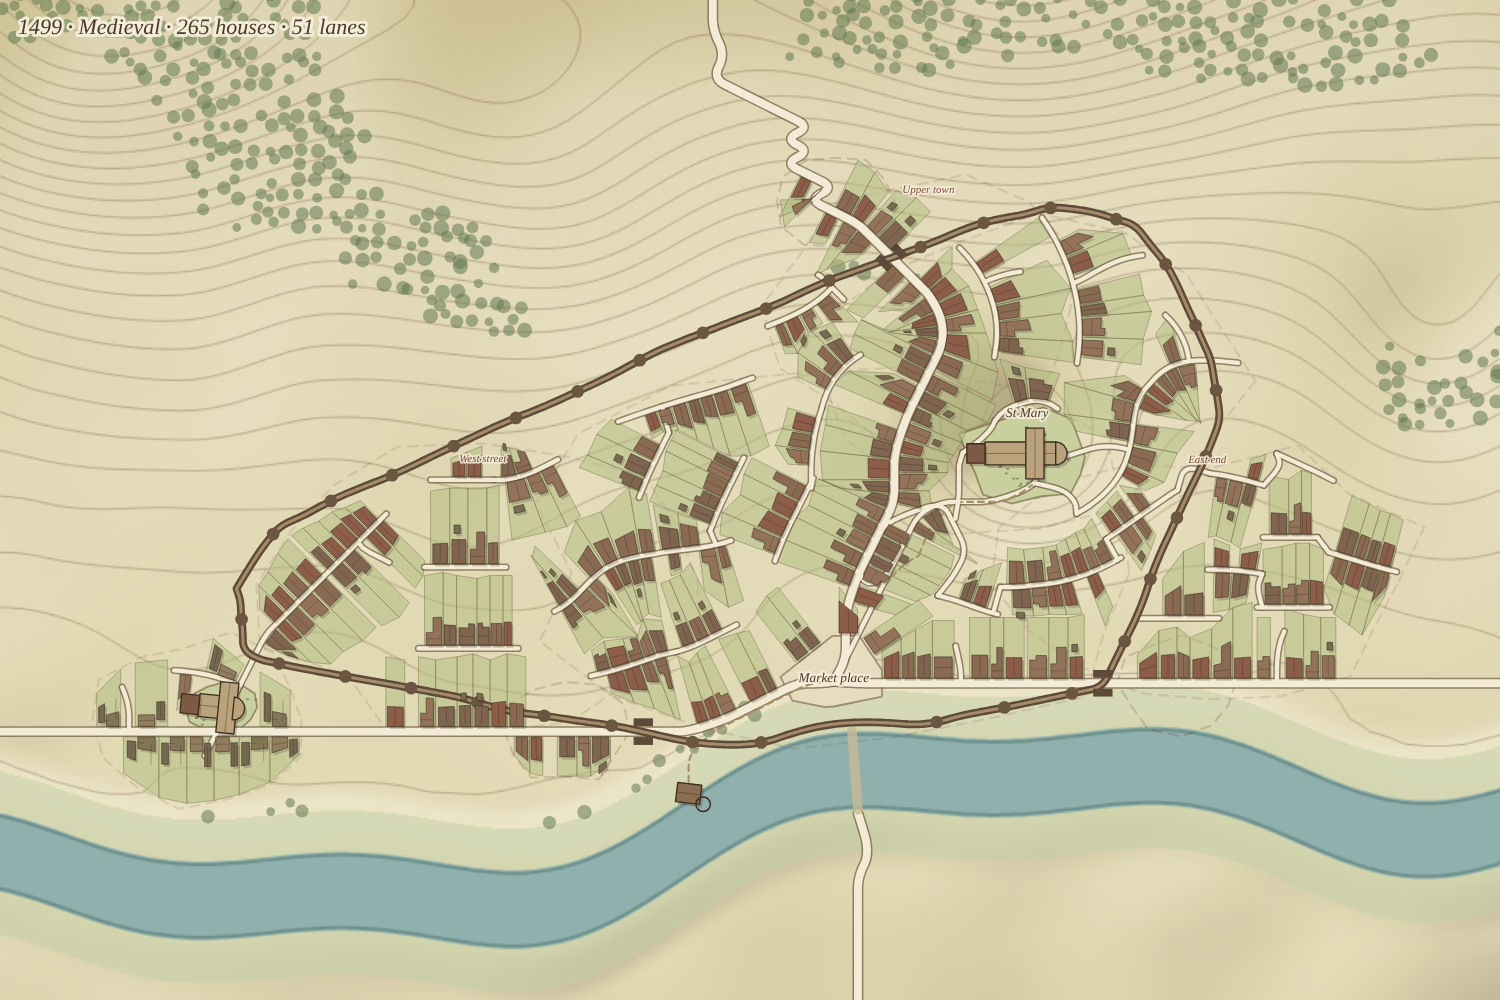
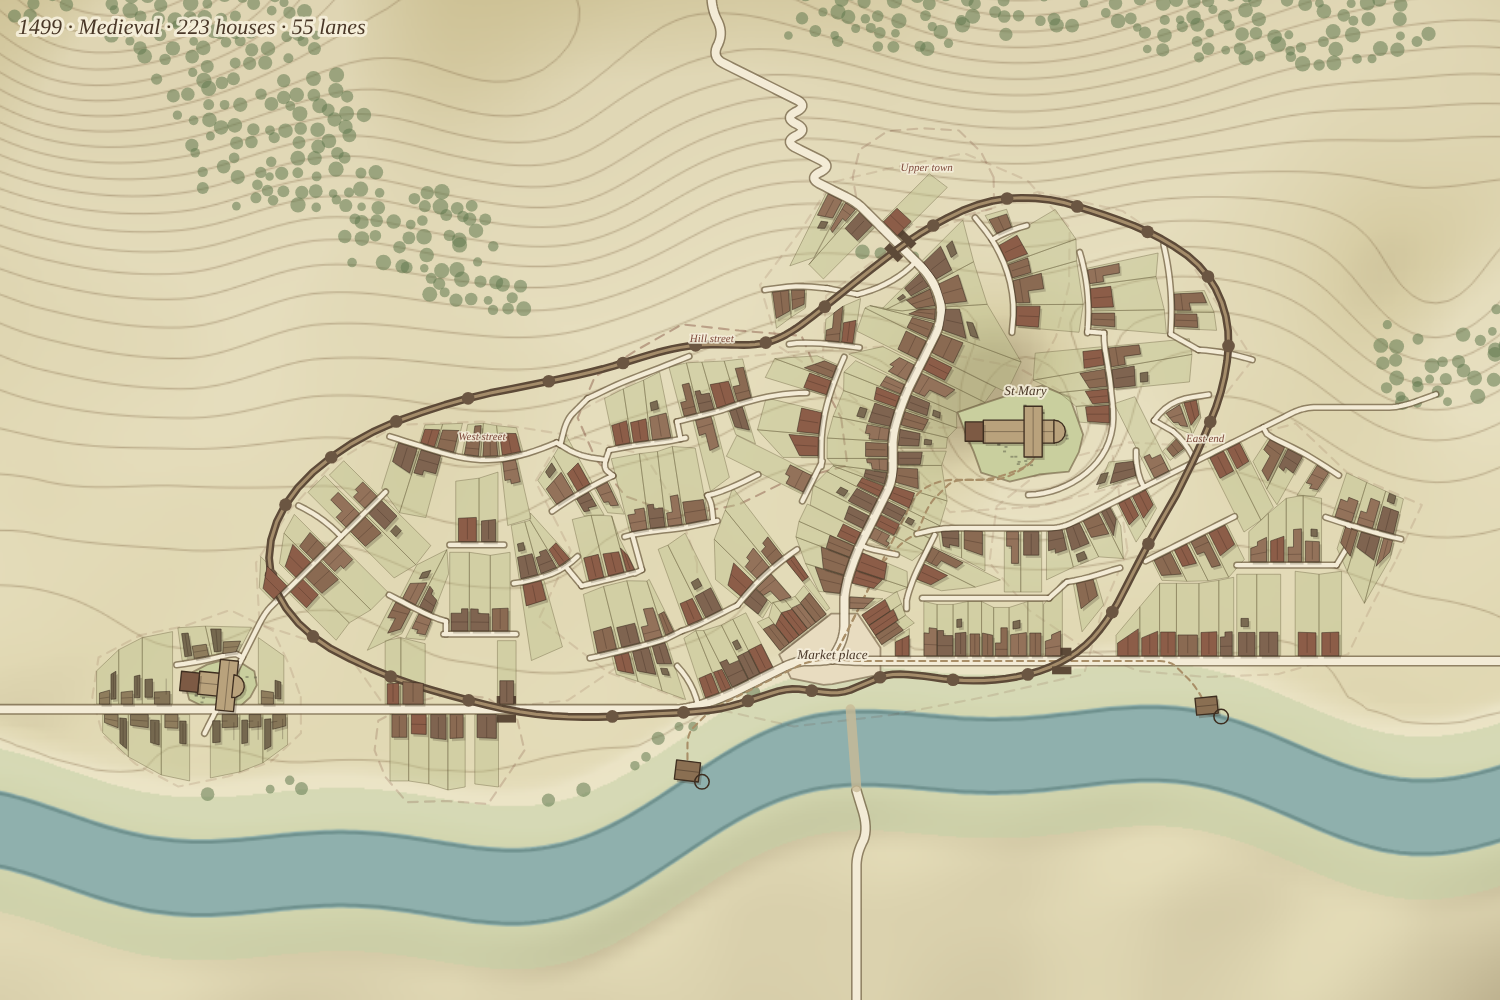
ages.html: denser medieval core, rounder wall, suburbs at the gates, second mill
Claude-Session: https://claude.ai/code/session_01JA2ThkAcXqH4NAdbEsaijC

diff --git a/prototypes/ages.html b/prototypes/ages.html
@@ -113,7 +113,8 @@ function depthAlong(x,y,nx,ny,max,own,z,wall){let t=0;
   return t;}
 // Lay out a row of strip plots along one side of a street, from s0 forward.
 function layRow(p,side,s0,s1,z,o={}){
-  const made=[];let s=s0;const back=o.depth??(9+rnd()*4),row={id:hsh(p.id,side,s0*10)};
+  const a0=at(p,(s0+s1)/2),v0=value(a0.x,a0.y),dear=v0>.95,mid=v0>.5;
+  const made=[];let s=s0;const back=o.depth??(dear?6.5+rnd()*2:mid?8+rnd()*3:9.5+rnd()*4),row={id:hsh(p.id,side,s0*10)};
   let prevB=null;p.gaps=p.gaps||{};const gk=side>0?'r':'l';if(p.gaps[gk]==null)p.gaps[gk]=6+rnd()*14;
   const every=()=>o.gapEvery??(16+rnd()*18);
   while(s<s1-1.5){
@@ -121,7 +122,7 @@ function layRow(p,side,s0,s1,z,o={}){
     while(p.gaps[gk]<s-2)p.gaps[gk]+=every();
     {const st=stubs.find(t=>t.p===p&&t.side===side&&t.s>s-1.3&&t.s<s+(o.width?3.5:3.8)+1.2);if(st){s=st.s+1.45;prevB=null;continue;}}
     if(s>=p.gaps[gk]&&s<p.len-6&&!o.noGaps){const a=at(p,s+1.1),nx=-a.ty*side,ny=a.tx*side;stubs.push({p,s:s+1.1,side,x:a.x,y:a.y,hx:nx,hy:ny,z,born:Y});s+=2.4;prevB=null;p.gaps[gk]=s+every();continue;}
-    const w=o.width?o.width():2+rnd()*1.6,sA=s,sB=Math.min(s1,s+w);if(sB-sA<1.4)break;
+    const w=o.width?o.width():dear?1.6+rnd()*.8:mid?2+rnd()*1.2:2.6+rnd()*1.6,sA=s,sB=Math.min(s1,s+w);if(sB-sA<1.4)break;
     const A=prevB&&Math.abs(prevB.s-sA)<1e-6?prevB:corner(p,sA,side,back,z,o.wall),B=corner(p,sB,side,back,z,o.wall);
     if(!A||!B){deadAt(z,p,side,s);prevB=null;s+=.8;continue;}
     // On the outside of a bend the sides splay: shorten the plot so its back is at most 1.7× its front.
@@ -185,7 +186,7 @@ function reachLane(z){let xs=z.poly.map(p=>p[0]),ys=z.poly.map(p=>p[1]),best=nul
   const c=addPath(line,'lane',{open:true});
   // The connector: from the nearest street to the nearest point of the new line, over easy ground.
   let bi=0,bd=1e9;for(let i=0;i<line.length;i++){const d=nearPath(...line[i],30,c,true).d;if(d<bd){bd=d;bi=i;}}
-  const np=nearPath(...line[bi],30,c,true);if(np.p&&np.d>1.5){const link=route([np.x,np.y],line[bi],{climb:30000,avoid:(x,y)=>inPlot(x,y,.4)||onWall(x,y)?60:0});if(link.length>=2)addPath(link,'lane');}
+  const np=nearPath(...line[bi],30,c,true);if(np.p&&np.d>1.5&&np.d<14){const link=route([np.x,np.y],line[bi],{climb:30000,avoid:(x,y)=>inPlot(x,y,.4)||onWall(x,y)?60:0});if(link.length>=2)addPath(link,'lane');}
   return true;}
 function trackTo(z){if(paths.some(p=>aliveP(p)&&p.kind!=='rail'&&p.pts.some(([x,y])=>inPoly(x,y,z.poly))))return;
   let best=null,bd=1e9;for(const p of paths)if(aliveP(p)&&p.kind!=='rail')for(let s=0;s<=p.len;s+=2){const a=at(p,s),d=Math.hypot(a.x-z.cx,a.y-z.cy);if(d<bd&&!flood(a.x,a.y)){bd=d;best=[a.x,a.y];}}
@@ -222,7 +223,7 @@ function growLane(z,o={}){
 const STYLE_BY_YEAR=y=>y<1500?'timber':y<1700?'stone':y<1850?'classical':y<1950?'brick':y<2000?'modernist':'contemporary';
 function setState(pl,st){pl.ev.push([Y,{...(pl.ev.at(-1)?.[1]||{}),...st}]);}
 function stateAt(pl,y){let s=null;for(const e of pl.ev){if(e[0]<=y)s=e[1];else break;}return s;}
-function buildOn(pl){const v=value(...centre(pl.pts)),dense=v>.85;setState(pl,{b:pl.zone.kind==='village'&&pl.w>3.4?'farm':'house',style:STYLE_BY_YEAR(Y),dv:clamp((dense?4.4:3.2+rnd()*.8)/pl.d,.25,.7),gap:dense?0:.06+rnd()*.08,plan:Math.floor(hsh(pl.id,3)*6),built:Y});pl.built=Y;}
+function buildOn(pl){const v=value(...centre(pl.pts)),dense=v>.85;if(dense)pl.dense=1;const mid=v>.45;setState(pl,{b:pl.zone.kind==='village'&&pl.w>3.4?'farm':'house',style:STYLE_BY_YEAR(Y),dv:clamp((dense?5+rnd():mid?4+rnd()*.8:3.2+rnd()*.8)/pl.d,.28,.75),gap:dense?0:mid?.02:.06+rnd()*.08,plan:Math.floor(hsh(pl.id,3)*6),built:Y});pl.built=Y;}
 const centre=q=>[q.reduce((a,p)=>a+p[0],0)/q.length,q.reduce((a,p)=>a+p[1],0)/q.length];
 // Pick the plot the next household takes: dear land, beside neighbours, near the street that is already built up.
 function nextPlot(z){let best=null,bs=-1e9;const empty=plots.filter(p=>aliveO(p)&&!p.built&&p.zone===z);if(!empty.length)return null;
@@ -238,13 +239,17 @@ function onWall(x,y){for(const w of walls)if(aliveO(w)&&ringDist(x,y,w.poly)<1.6
 function wallOK(x,y,w){return w.inside?inPoly(x,y,w.poly):!inPoly(x,y,w.poly)&&ringDist(x,y,w.poly)>2.2;}
 function ringDist(x,y,poly){let b=1e9;for(let i=0;i<poly.length;i++){const a=poly[i],c=poly[(i+1)%poly.length],vx=c[0]-a[0],vy=c[1]-a[1],t=clamp(((x-a[0])*vx+(y-a[1])*vy)/(vx*vx+vy*vy||1),0,1);b=Math.min(b,Math.hypot(a[0]+vx*t-x,a[1]+vy*t-y));}return b;}
 function throwWall(cx,cy,zs,margin){
-  const pts=[];for(const pl of plots)if(aliveO(pl)&&pl.built&&zs.includes(pl.zone))pts.push(...pl.pts);
-  for(const l of landmarks)if(aliveO(l)&&l.inWall)for(let k=0;k<8;k++)pts.push([l.x+Math.cos(k*.785)*7,l.y+Math.sin(k*.785)*7]);
-  // A hull pushed out by the margin, with a little of each sector's own reach so the ring is not a perfect polygon.
-  let H=hull(pts);const out=[];for(let i=0;i<H.length;i++){const a=H[i],b=H[(i+1)%H.length],L=dist(a,b),n=Math.max(1,Math.ceil(L/4));for(let k=0;k<n;k++)out.push([a[0]+(b[0]-a[0])*k/n,a[1]+(b[1]-a[1])*k/n]);}
-  const [hx,hy]=centre(out);
-  let poly=out.map(([x,y],i)=>{const d=Math.hypot(x-hx,y-hy)||1,m=margin*(.8+.5*noise(i*3,0,7,41));x+=(x-hx)/d*m;y+=(y-hy)/d*m;if(y>riverY(x)-RIVER_HW-1.5)y=riverY(x)-RIVER_HW-1.5;return [x,y];});
-  poly=chaikin([...poly,poly[0]],3).slice(0,-1);
+  // Each of 48 sectors reaches as far as its built houses (or a landmark), plus a margin; the ring is then softened.
+  const n=48,r=new Array(n).fill(0);
+  const reach=(x,y,add=0)=>{const a=Math.atan2(y-cy,x-cx),k=((Math.round(a/(2*Math.PI)*n)%n)+n)%n;r[k]=Math.max(r[k],Math.hypot(x-cx,y-cy)+add);};
+  for(const pl of plots)if(aliveO(pl)&&pl.built&&zs.includes(pl.zone))for(const [x,y] of pl.pts)reach(x,y);
+  for(const l of landmarks)if(aliveO(l)&&l.inWall)reach(l.x,l.y,7);
+  const mean=r.reduce((a,b)=>a+b,0)/n;let q=r.map(v=>v||mean*.6);
+  for(let k=0;k<4;k++)q=q.map((v,i)=>Math.max(v,(q[(i+1)%n]+q[(i+n-1)%n])/2*.92));
+  for(let k=0;k<2;k++)q=q.map((v,i)=>(q[(i+1)%n]+q[(i+n-1)%n]+v*2)/4);
+  let poly=q.map((v,i)=>{const a=i/n*2*Math.PI,m=margin*(.8+.5*noise(i*3,0,7,41));let x=cx+Math.cos(a)*(v+m),y=cy+Math.sin(a)*(v+m);
+    if(y>riverY(x)-RIVER_HW-1.5)y=riverY(x)-RIVER_HW-1.5;return [x,y];});
+  poly=chaikin([...poly,poly[0]],2).slice(0,-1);
   const w={poly,born:Y,died:null,gates:[],towers:[]};walls.push(w);
   for(const p of paths)if(aliveP(p)&&(p.kind==='road'))for(let i=1;i<p.pts.length;i++){const a=p.pts[i-1],b=p.pts[i];if(inPoly(...a,poly)!==inPoly(...b,poly))w.gates.push({x:(a[0]+b[0])/2,y:(a[1]+b[1])/2,a:Math.atan2(b[1]-a[1],b[0]-a[0]),road:p});}
   let acc=0;for(let i=0;i<poly.length;i++){const a=poly[i],b=poly[(i+1)%poly.length];acc+=dist(a,b);if(acc>11&&!w.gates.some(g=>Math.hypot(g.x-a[0],g.y-a[1])<5)&&!water(a[0],a[1]+2)){w.towers.push(a);acc=0;}}
@@ -268,22 +273,24 @@ function blob(cx,cy,rx,ry,k=14,salt=0){return Array.from({length:k},(_,i)=>{cons
 // ───────────── the scripted player ─────────────
 // Zones are what the player paints; landmarks are cards they play. Same list, same town.
 const C0=[200,riverY(200)-15];         // the crossing: the valley road meets the ford road
-const SPRING=[214,riverY(214)-36],CHURCH=[232,150],MILL=[176,riverY(176)-RIVER_HW-.8],VIL=[96,riverY(96)-24],FORD=[203,riverY(203)];
+const MILL2=[262,riverY(262)-RIVER_HW-.8],HAMLET=[300,riverY(300)-70],SPRING=[214,riverY(214)-36],CHURCH=[232,150],MILL=[176,riverY(176)-RIVER_HW-.8],VIL=[96,riverY(96)-24],FORD=[203,riverY(203)];
 const town=[];
 const SCRIPT=[
  [1300,()=>{const z=addZone(blob(C0[0]+2,C0[1]-18,52,32,18,1),'town','The crossing',{lay:{}});town.push(z);
    addZone(blob(VIL[0],VIL[1]-6,18,14,14,2),'village','Westby',{rate:.25,lay:{width:()=>3.6+rnd()*2.4,depth:11,gapEvery:22}});
    const m=addLandmark('market',C0[0],C0[1],0,{pull:1.25,reach:16,name:'Market place',clear:marketPlace(C0,paths.filter(p=>p.kind==='road'&&nearPath(...C0,4).p===p||p.kind==='road'&&Math.hypot(at(p,nearestS(p,C0)).x-C0[0],at(p,nearestS(p,C0)).y-C0[1])<3),4.2),placeKind:'market'});
-   {const mp=places.at(-1).poly;addPath([...mp,mp[0]].map(([x,y])=>[x,y]),'edge',{hw:.05});}
+   {const mp=places.at(-1).poly,ep=addPath([...mp,mp[0]].map(([x,y])=>[x,y]),'edge',{hw:.05});for(const sd of [1,-1])layRow(ep,sd,.5,ep.len-.5,z,{width:()=>1.7+rnd()*.7,depth:6,noGaps:true});}
    addLandmark('church',CHURCH[0],CHURCH[1],0,{pull:.9,reach:12,name:'St Mary',parts:churchParts(14),clear:blob(CHURCH[0],CHURCH[1]+.5,11,7.5,14,3),placeKind:'churchyard'});
    addLandmark('chapel',VIL[0]+3,VIL[1]-8,.1,{pull:.5,reach:8,parts:churchParts(8),clear:blob(VIL[0]+3,VIL[1]-8,6,4.5,12,4),placeKind:'churchyard',inWall:false});
+   addLandmark('mill',MILL2[0],MILL2[1],-.1,{pull:.15,reach:6,parts:[{poly:R(-1.8,-1.4,1.8,1.4),ridge:[[-1.6,0],[1.6,0]],tone:'mill'}],inWall:false});
    addLandmark('mill',MILL[0],MILL[1],.12,{pull:.2,reach:6,parts:[{poly:R(-2,-1.6,2,1.6),ridge:[[-1.8,0],[1.8,0]],tone:'mill'}],inWall:false});}],
  [1340,()=>{town.push(addZone(blob(CHURCH[0]+2,CHURCH[1]-12,36,26,16,5),'town','Church hill'));}],
  [1365,()=>{town.push(addZone(blob(C0[0]-58,C0[1]-16,36,24,16,6),'town','West street'));}],
  [1395,()=>{town.push(addZone(blob(C0[0]+62,C0[1]-16,34,22,16,7),'town','East end'));}],
  [1420,()=>{town.push(addZone(blob(C0[0]+16,C0[1]-62,26,22,14,9),'town','Upper town'));}],
- [1450,()=>{const w=walls[0];if(!w)return;for(const g of w.gates.slice(0,4)){const out=[g.x+Math.cos(g.a)*12,g.y+Math.sin(g.a)*12],dir=inPoly(g.x+Math.cos(g.a)*4,g.y+Math.sin(g.a)*4,w.poly)?-1:1;
-     const cx=g.x+Math.cos(g.a)*dir*13,cy=g.y+Math.sin(g.a)*dir*13;const z=addZone(blob(cx,cy,10,8,12,8+w.gates.indexOf(g)),'suburb',null,{wall:{poly:w.poly,inside:false},rate:.6});}}],
+ [1450,()=>{const w=walls[0];if(!w)return;const [wx,wy]=centre(w.poly);for(const [gi,g] of w.gates.entries()){const dx=g.x-wx,dy=g.y-wy,l=Math.hypot(dx,dy)||1;
+     const cx=g.x+dx/l*12,cy=g.y+dy/l*12;if(flood(cx,cy))continue;addZone(blob(cx,cy,12,9,12,8+gi),'suburb',null,{wall:{poly:w.poly,inside:false},rate:.7});}}],
+ [1475,()=>{town.push(addZone(blob(C0[0]-20,C0[1]-40,22,16,14,10),'town','Hill street'));}],
 ];
 function addZone(poly,kind,name,o={}){const z={poly,kind,name,born:Y,died:null,rate:o.rate??1,lay:o.lay||{},wall:o.wall||null,cx:centre(poly)[0],cy:centre(poly)[1]};zones.push(z);trackTo(z);if(name)labels.push({text:name,x:z.cx,y:Math.min(...poly.map(p=>p[1]))+3,born:Y,kind:'zone'});return z;}
 // Growth: how many households arrive in a year, by Age.
@@ -295,8 +302,8 @@ function foundRoads(){
   addPath(route(C0,[FORD[0],FORD[1]-RIVER_HW-.5]),'road');addPath(route([FORD[0]+1,FORD[1]+RIVER_HW+.5],S,{floodCost:1.5}),'road');
   addPath(route(C0,N,{climb:140000}),'road',{name:'the hill road'});
   // Footpaths that were there before the houses: to the spring, the church, the mill, the village.
-  for(const [a,b] of [[C0,SPRING],[C0,CHURCH],[C0,MILL],[CHURCH,SPRING],[VIL,[VIL[0]+30,VIL[1]-40]]])addPath(route(a,b,{climb:50000}),'path');}
-let carry=0;const census=[];
+  for(const [a,b] of [[C0,SPRING],[C0,CHURCH],[C0,MILL],[CHURCH,SPRING],[VIL,[VIL[0]+30,VIL[1]-40]],[C0,MILL2],[SPRING,HAMLET]])addPath(route(a,b,{climb:50000}),'path');}
+let carry=0,FAILS=0;const census=[];
 // A home for one household in zone z: the best empty plot, unless new plots on
 // dearer frontage (or a new lane into dear land) would beat it.
 function findHome(z){
@@ -311,7 +318,7 @@ function yearStep(){
   for(const [y,f] of SCRIPT)if(y===Y)f();
   // The wall: once the town is big enough to need one.
   const townHouses=plots.filter(p=>aliveO(p)&&p.built&&town.includes(p.zone)).length;
-  if(!walls.length&&townHouses>=150){const w=throwWall(C0[0]+2,C0[1]-8,town,3);for(const z of town)z.wall={poly:w.poly,inside:true};}
+  if(!walls.length&&townHouses>=150){const tc=centre(plots.filter(p=>aliveO(p)&&p.built&&town.includes(p.zone)).flatMap(p=>p.pts));const w=throwWall(tc[0],tc[1],town,2.6);for(const z of town)z.wall={poly:w.poly,inside:true};}
   carry+=RATE(Y);
   const live=zones.filter(z=>aliveO(z)),wsum=live.reduce((a,z)=>a+z.rate,0);
   while(carry>=1){carry-=1;
@@ -319,7 +326,7 @@ function yearStep(){
     let t=rnd()*wsum,z=live[0];for(const o of live){t-=o.rate;if(t<=0){z=o;break;}}
     let pl=findHome(z);
     for(const o of live.slice().sort(()=>rnd()-.5)){if(pl)break;if(o!==z)pl=findHome(o);}
-    if(pl)buildOn(pl);}
+    if(pl)buildOn(pl);else FAILS++;}
   census.push({y:Y,houses:plots.filter(p=>aliveO(p)&&p.built).length});}
 // ───────────── drawing ─────────────
 const cv=document.getElementById('c'),g=cv.getContext('2d');
@@ -381,7 +388,7 @@ function draw(year){
     if(pl.kind==='churchyard'){g.fillStyle='rgba(90,90,70,.5)';const [cx,cy]=centre(pl.poly);for(let i=0;i<26;i++){const x=cx+(hsh(i,pl.born,9)-.5)*14,y=cy+(hsh(i,pl.born,10)-.5)*10;if(inPoly(x,y,pl.poly))g.fillRect(x,y,.5,.3);}}}
   // plots: gardens and crofts behind the houses
   const live=plots.filter(p=>p.born<=year&&(p.died==null||p.died>year));
-  for(const pl of live){poly(pl.pts);const st=stateAt(pl,year);g.fillStyle=st?'rgba(178,190,132,.55)':'rgba(206,198,150,.55)';g.fill();g.lineWidth=.12;g.strokeStyle='rgba(105,95,62,.55)';g.stroke();
+  for(const pl of live){poly(pl.pts);const st=stateAt(pl,year);g.fillStyle=st?'rgba(188,192,140,.42)':'rgba(206,198,150,.45)';g.fill();g.lineWidth=.12;g.strokeStyle='rgba(105,95,62,.55)';g.stroke();
     if(!st){const Q=Qf(pl);g.lineWidth=.08;g.strokeStyle='rgba(120,110,70,.35)';g.beginPath();for(let u=.33;u<1;u+=.33){g.moveTo(...Q(u,.05));g.lineTo(...Q(u,.95));}g.stroke();}}
   // streets
   for(const pass of [0,1])for(const p of paths){if(!aliveP(p))continue;
